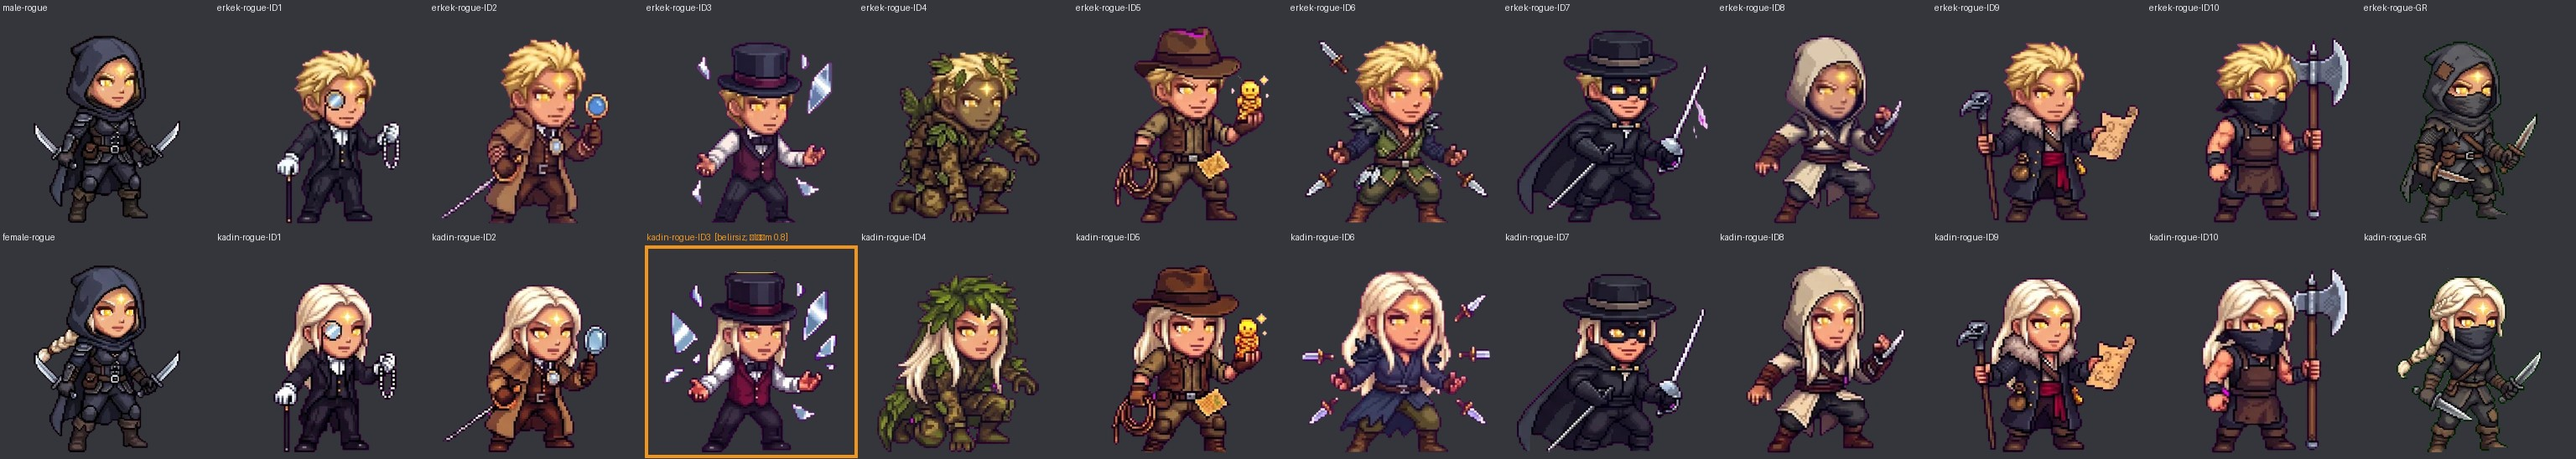
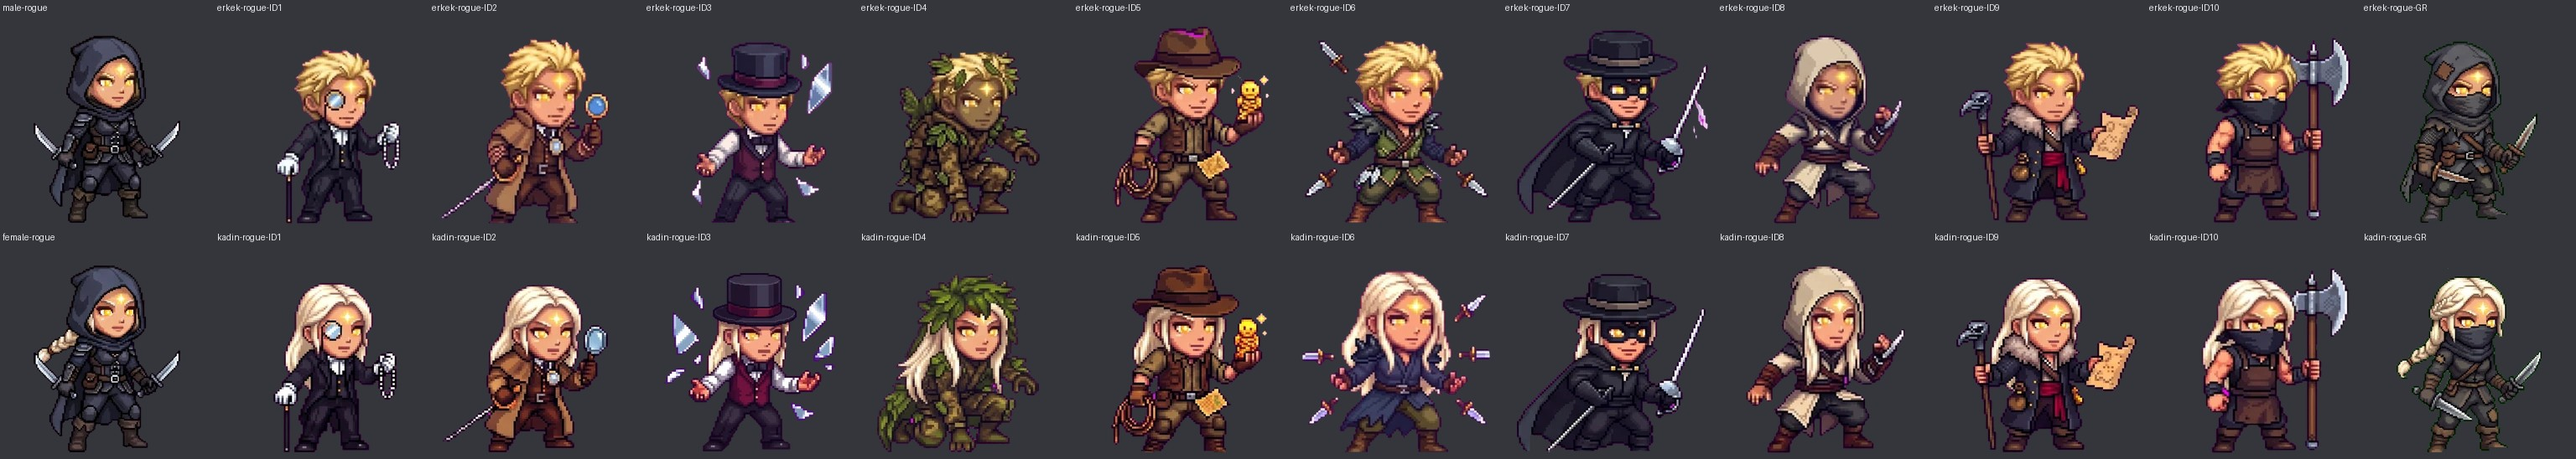
Kadın Celestial Rogue ID3: düzeltme hücresinden yeniden kesim (şapka tepesindeki hale kalıntısı gitti)
Kaynak wip/karakter-ham assets-ham/eksikler/celestial-kadin-rogue-ID3-duzeltme.jpg (dd4acfea). scripts/cc-kesim.py tek: macenta anahtar, eski jetona baş tepesi (koyu kontur) ve ayak hizası (baş 34 -> 34, ayak 247 -> 246), düzeltme önceliğiyle yazıldı (defter). Hale ölçümü 0,8 -> 0; Celestial jetonlarında ten maskesi yok (üretilecek maske yok). Önce/sonra 4x docs/sabah/cc-kesim/rogue-ID3-once-sonra-4x.png; final rapor: halesiz 285, haleli 5.

Claude-Session: https://claude.ai/code/session_01VVQfWy7Gxh4PHzxq6UKvoy

Changed region(s): [[0.25, 0.5894, 0.3438, 0.8686], [0.25, 0.9617, 0.3438, 1.0], [0.25, 0.4964, 0.3438, 0.5584]]

diff --git a/scripts/cc-kesim.py b/scripts/cc-kesim.py
@@ -630,10 +630,50 @@ def diger():
     oncelik_rapor(L)
     return rep
 
+# ---------------------------------------------------------------------------------------------------------------- tek jeton düzeltmesi (baş + ayak hizası)
+TEK = {'celestial-kadin-rogue-ID3': 'celestial-kadin-rogue-ID3-duzeltme.jpg'}   # 2026-11-19: şapka tepesindeki ince sarı çizgi (hale kalıntısı)
+
+def head_feet(rgba):
+    """Gövde (en büyük bileşen) üzerinde baş tepesi = koyu kontur (parlaklık < 90) ≥ 6 px olan ilk satır (şapka üstündeki ince açık çizgi sayılmaz),
+    ayak = gövdenin son satırı, yatay merkez = baş tepesinden 12 satırın ortalaması."""
+    al = rgba[..., 3] > 127
+    lab, n = ndi.label(al, structure=np.ones((3, 3))); sz = ndi.sum(al, lab, range(1, n + 1)); body = lab == (1 + int(np.argmax(sz)))
+    dark = body & (rgba[..., :3].max(axis=2) < 90)
+    top = next(y for y in range(body.shape[0]) if dark[y].sum() >= 6)
+    ys, _ = np.where(body); feet = int(ys.max())
+    cx = float(np.where(body[top:top + 12])[1].mean())
+    return top, feet, cx
+
+def tek():
+    L = ledger(); rep = {'adim': 'tek', 'yazilan': [], 'ezilmedi': [], 'olcu': {}}
+    items = []
+    for name, f in TEK.items():
+        a = np.asarray(Image.open(f'{RAW}/{f}').convert('RGB')); fg = key_page(a)
+        lab, n = ndi.label(fg, structure=np.ones((3, 3))); sz = ndi.sum(fg, lab, range(1, n + 1))
+        H, W = fg.shape; objs = ndi.find_objects(lab)
+        keep = [i for i in range(1, n + 1) if sz[i - 1] >= 30 and not (objs[i - 1][0].start <= 1 or objs[i - 1][1].start <= 1 or objs[i - 1][0].stop >= H - 1 or objs[i - 1][1].stop >= W - 1)]
+        m = np.isin(lab, keep); ys, xs = np.where(m)
+        y0, y1, x0, x1 = ys.min(), ys.max() + 1, xs.min(), xs.max() + 1
+        cell = keyed_rgba(a[y0:y1, x0:x1], m[y0:y1, x0:x1])
+        old = np.array(Image.open(f'public/characters/{name}.webp').convert('RGBA'))
+        ot, of, ocx = head_feet(old); nt, nf, ncx = head_feet(cell)
+        sc = (of - ot) / (nf - nt)
+        dx, dy = ocx - ncx * sc, ot - nt * sc
+        tok = tk.clean_edges(resample(cell, sc, dx, dy))
+        t2, f2, c2 = head_feet(tok)
+        rep['olcu'][name] = {'eski': {'bas': ot, 'ayak': of, 'x': round(ocx, 1)}, 'yeni': {'bas': t2, 'ayak': f2, 'x': round(c2, 1)}, 'olcek': round(sc, 4),
+                             'kenar': bool(tok[0, :, 3].any() or tok[-1, :, 3].any() or tok[:, 0, 3].any() or tok[:, -1, 3].any())}
+        write_token(L, name, Image.fromarray(tok, 'RGBA'), 'duzeltme', f, 1, rep)
+        items.append((name, tok, old))
+    save_ledger(L); hold_sync(L)
+    if not KURU: oncelik_rapor(L)
+    os.makedirs(DOC, exist_ok=True); json.dump(rep, open(f'{DOC}/tek-duzeltme.json', 'w'), ensure_ascii=False, indent=1)
+    return rep
+
 if __name__ == '__main__':
     os.makedirs(f'{OUT}/kucuk', exist_ok=True)
     step = sys.argv[1] if len(sys.argv) > 1 else ''
-    fn = {'taban': taban, 'yeni': yeni, 'duzeltme': duzeltme, 'diger': diger, 'gladyator-onizleme': lambda: (gladyator_onizleme(), {'tamam': 1})[1]}.get(step)
+    fn = {'taban': taban, 'yeni': yeni, 'duzeltme': duzeltme, 'diger': diger, 'tek': tek, 'gladyator-onizleme': lambda: (gladyator_onizleme(), {'tamam': 1})[1]}.get(step)
     if not fn: sys.exit(__doc__)
     r = fn()
     print({k: (len(v) if isinstance(v, (list, dict)) else v) for k, v in r.items()})

diff --git a/scripts/celestial-final.py b/scripts/celestial-final.py
@@ -26,7 +26,6 @@ GORSEL = {
     'celestial-female-bard': ('halesiz', 'yanlış alarm: şapka tüyü'),
     'celestial-kadin-wizard-WZ-B1': ('halesiz', 'yanlış alarm: rüzgâr parçacıkları'),
     'celestial-erkek-warlock-WL-8': ('halesiz', 'yanlış alarm: Gulyabani saç telleri (taç yok kararı ayrı)'),
-    'celestial-kadin-rogue-ID3': ('belirsiz', 'silindir şapkanın tepesinde ince sarı çizgi: hale kalıntısı olabilir (halesiz-doğrulandı, dokunulmamıştı)'),
 }
 
 def order(n):

diff --git a/docs/sabah/celestial-final/haleli-liste.md b/docs/sabah/celestial-final/haleli-liste.md
@@ -2,7 +2,7 @@
 
 Üretici `scripts/celestial-final.py`, ölçüm `scripts/hale-olcum.py`. 290 Celestial jeton. Sınıf sayfaları bu klasörde (`<sınıf>.jpg`; kırmızı = haleli, turuncu = belirsiz), bütün ölçüm `olcum.csv`.
 
-**Sonuç (ölçüm + görsel kontrol): halesiz 284, haleli 5, belirsiz 1.** Yalnız ölçüm: halesiz 280, haleli 10, belirsiz 0.
+**Sonuç (ölçüm + görsel kontrol): halesiz 285, haleli 5, belirsiz 0.** Yalnız ölçüm: halesiz 281, haleli 9, belirsiz 0.
 
 Ölçüm: başın tepesinde/üstünde ince elips halka ya da ince yay (skor 0–1; ≥ 0,5 haleli, 0,2–0,5 belirsiz). Duyarlılık sınırlı (kalibrasyonda bilinen halelerin ≈ %65’i), bu yüzden 12 sınıf sayfası ayrıca gözle tarandı; gözle görülen ek hale yok.
 
@@ -13,7 +13,6 @@
 | celestial-erkek-wizard-WZ-B3 | **haleli** | haleli 1.0 (sutun; yay_en 38, yay_y 27, kalinlik 4, bosluk 6, ust 27) | altın halka başın üstünde (sayfa 30 yok) | CC öncesi (değişmedi) | yok (bekleyen) |
 | celestial-erkek-wizard-WZ-B4 | **haleli** | haleli 1.0 (sutun; yay_en 38, yay_y 21, kalinlik 4, bosluk 6, ust 21) | altın halka başın üstünde (sayfa 30 yok) | CC öncesi (değişmedi) | yok (bekleyen) |
 | celestial-erkek-wizard-WZ-B7 | **haleli** | haleli 1.0 (sutun; yay_en 40, yay_y 14, kalinlik 4, bosluk 6, ust 14) | altın halka başın üstünde (sayfa 30 yok) | CC öncesi (değişmedi) | yok (bekleyen) |
-| celestial-kadin-rogue-ID3 | **belirsiz** | haleli 0.8 (halka; en 44, boy 3, kalinlik 1.0, doluluk 0.32, ic_saydam 0.0, ust_saydam 1.0, kapsama 1.0, ust_yay 1.0, px 42, y 32, ust 19) | silindir şapkanın tepesinde ince sarı çizgi: hale kalıntısı olabilir (halesiz-doğrulandı, dokunulmamıştı) | CC öncesi (değişmedi) | çizilir |
 | celestial-erkek-warlock-WL-8 | **halesiz** | haleli 0.75 (sutun; yay_en 18, yay_y 8, kalinlik 2, bosluk 7, ust 8) | yanlış alarm: Gulyabani saç telleri (taç yok kararı ayrı) | yeni (warlock-male-celestial.jpg / 8) | yok (bekleyen) |
 | celestial-female-bard | **halesiz** | haleli 1.0 (sutun; yay_en 27, yay_y 22, kalinlik 4, bosluk 10, ust 10) | yanlış alarm: şapka tüyü | taban (hale-gemini-sayfa-04.png / 7) | çizilir |
 | celestial-kadin-wizard-WZ-B1 | **halesiz** | haleli 0.667 (halka; en 38, boy 7, kalinlik 1.0, doluluk 0.15, ic_saydam 0.43, ust_saydam 1.0, kapsama 0.58, ust_yay 0.83, px 40, y 27, ust 25) | yanlış alarm: rüzgâr parçacıkları | CC öncesi (değişmedi) | çizilir |

diff --git a/docs/sabah/celestial-oncelik.md b/docs/sabah/celestial-oncelik.md
@@ -27,4 +27,4 @@ Kural (`scripts/cc-kesim.py` `ONCELIK`, `write_token`): aynı jeton kimliği iç
 | celestial-kadin-warlock-WL-3 | taban → duzeltme | duzeltme | hale-gemini-duzeltme-sayfa-03.jpg / 6 |
 | celestial-kadin-warlock-WL-4 | taban → duzeltme | duzeltme | hale-gemini-duzeltme-sayfa-01.jpg / 7 |
 
-Tek kaynaktan yazılan Celestial jeton: 140.
+Tek kaynaktan yazılan Celestial jeton: 141.
